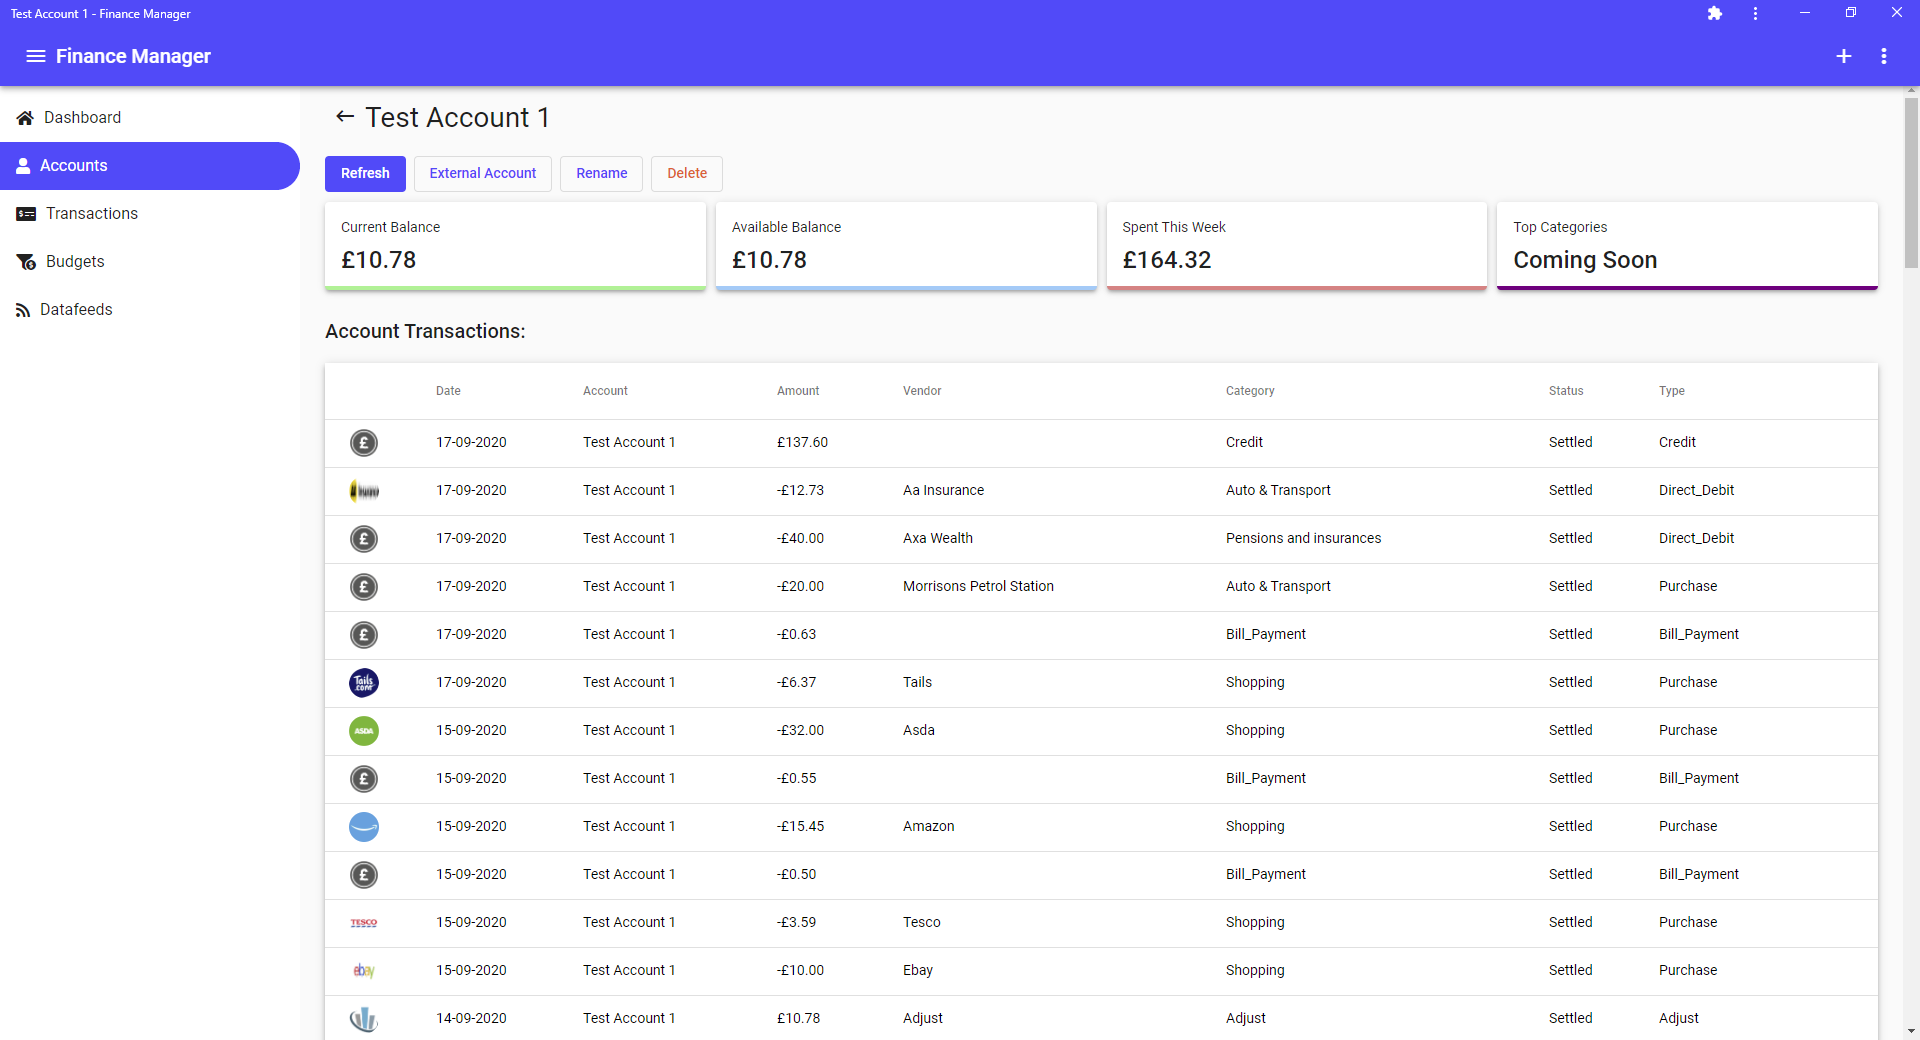
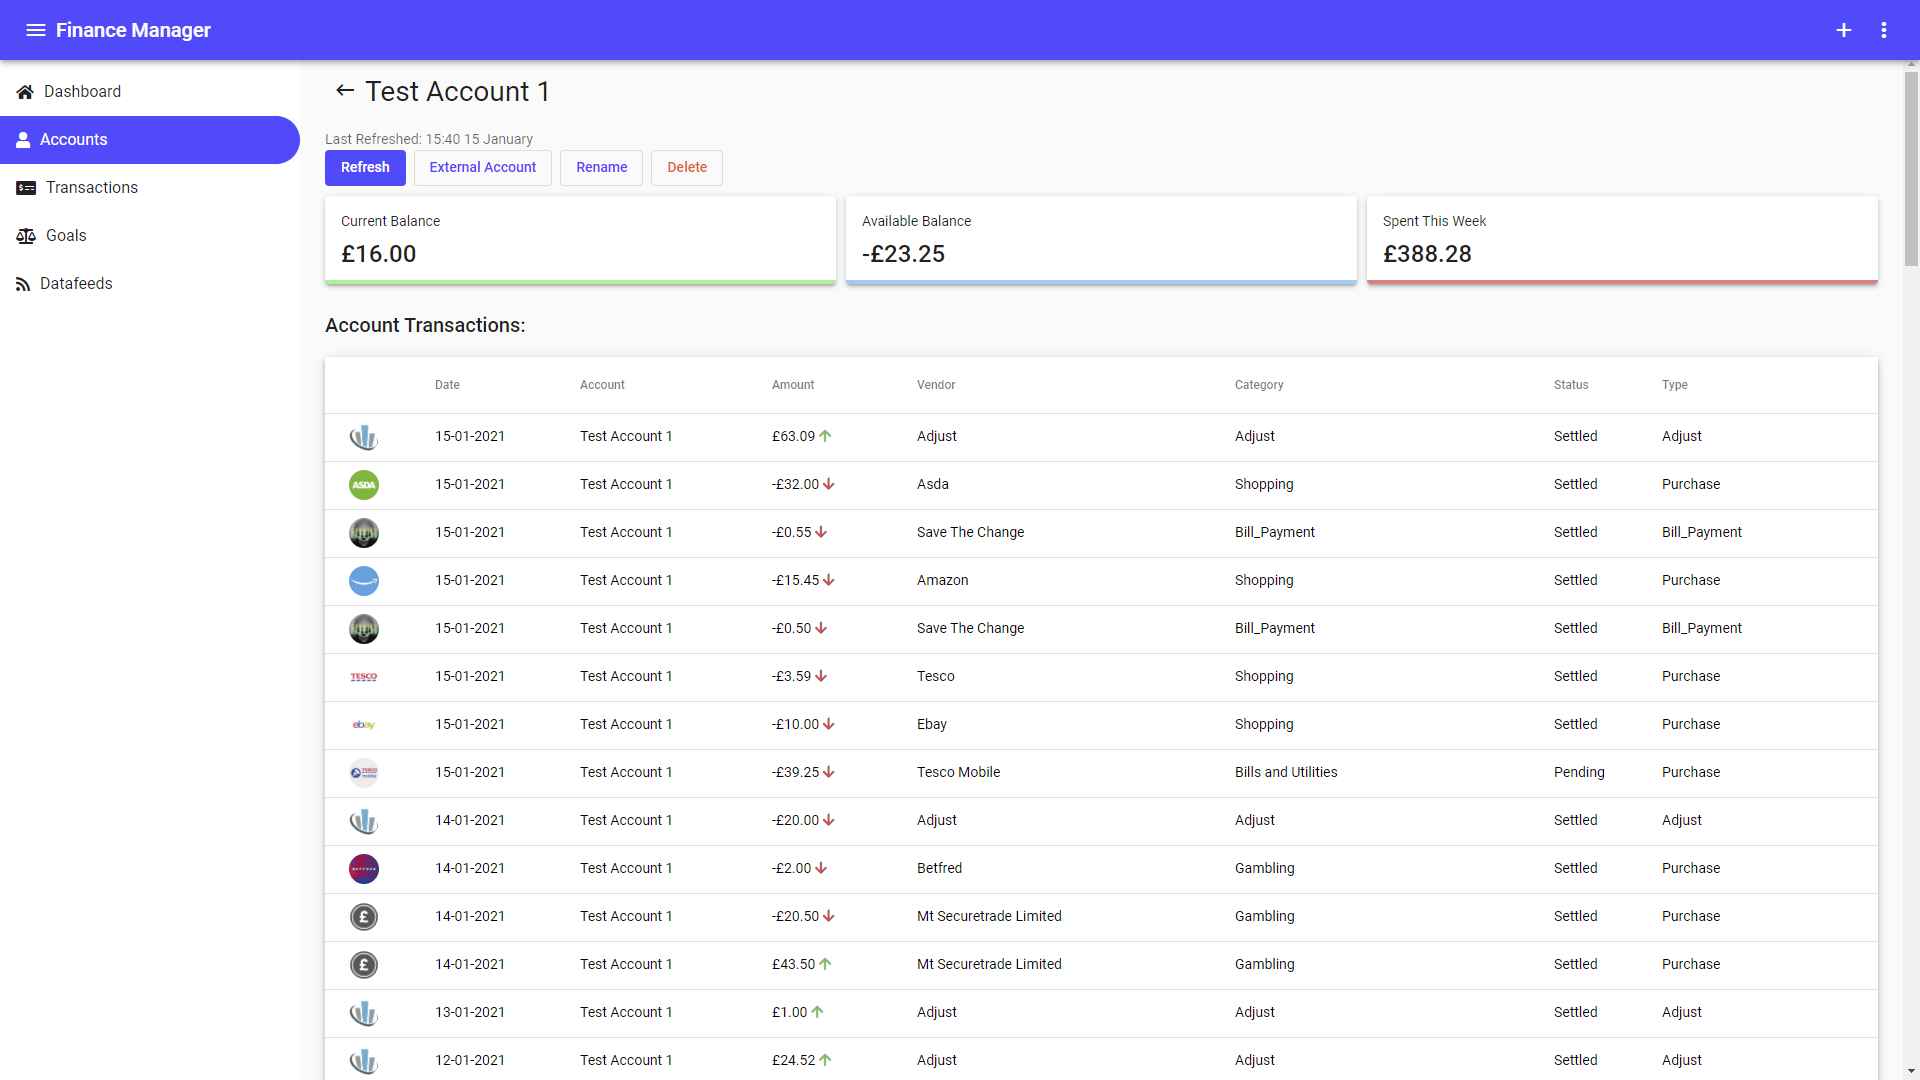
🌙 Fixed charts & Added Dark Mode

diff --git a/src/src/app/Pages/transaction-details/transaction-details.component.ts b/src/src/app/Pages/transaction-details/transaction-details.component.ts
@@ -4,12 +4,18 @@ import {
   ViewChild,
   AfterViewInit,
   HostListener,
+  Inject,
 } from '@angular/core';
 import { TransactionsService } from 'src/app/Services/transactions.service';
 import { ActivatedRoute, Router } from '@angular/router';
 import { TransactionFormComponent } from 'src/app/Components/transaction-form/transaction-form.component';
 import { ConfigService } from 'src/app/Services/config.service';
 import { NotifierService } from 'angular-notifier';
+import {
+  MatDialog,
+  MatDialogRef,
+  MAT_DIALOG_DATA,
+} from '@angular/material/dialog';
 
 @Component({
   templateUrl: './transaction-details.component.html',
@@ -21,7 +27,8 @@ export class TransactionDetailsComponent implements AfterViewInit, OnInit {
     private route: ActivatedRoute,
     private router: Router,
     private notifier: NotifierService,
-    private configService: ConfigService
+    private configService: ConfigService,
+    public dialog: MatDialog
   ) {}
 
   @ViewChild(TransactionFormComponent, { static: false })
@@ -102,5 +109,48 @@ export class TransactionDetailsComponent implements AfterViewInit, OnInit {
         .deleteTransaction(this.id)
         .subscribe(() => this.router.navigate(['/transactions']));
     }
+  }
+
+  setCustomIcon() {
+    const dialogRef = this.dialog.open(TransactionSetCustomIcon, {
+      width: '400px',
+      data: this.icon,
+    });
+
+    dialogRef.afterClosed().subscribe((result) => {
+      console.log('The dialog was closed', result);
+      if (result) {
+        this.icon = result;
+      }
+    });
+  }
+}
+
+@Component({
+  template: `
+    <h1 mat-dialog-title>Set Transaction Icon</h1>
+    <div mat-dialog-content>
+      <p>Icon Url</p>
+      <mat-form-field style="width: 100%">
+        <mat-label>Icon Url</mat-label>
+        <input matInput [(ngModel)]="iconUrl" />
+      </mat-form-field>
+    </div>
+    <div mat-dialog-actions>
+      <button mat-button (click)="onNoClick()">Cancel</button>
+      <button mat-button [mat-dialog-close]="iconUrl" cdkFocusInitial>
+        Ok
+      </button>
+    </div>
+  `,
+})
+export class TransactionSetCustomIcon {
+  constructor(
+    public dialogRef: MatDialogRef<TransactionSetCustomIcon>,
+    @Inject(MAT_DIALOG_DATA) public iconUrl: string
+  ) {}
+
+  onNoClick(): void {
+    this.dialogRef.close();
   }
 }

diff --git a/src/src/app/app.module.ts b/src/src/app/app.module.ts
@@ -23,7 +23,10 @@ import { AccountsComponent } from './Pages/accounts/accounts.component';
 import { TransactionsComponent } from './Pages/transactions/transactions.component';
 import { AccountDetailsComponent } from './Pages/account-details/account-details.component';
 import { FinanceApiRequest } from './Services/finance-api.request.service';
-import { TransactionDetailsComponent } from './Pages/transaction-details/transaction-details.component';
+import {
+  TransactionDetailsComponent,
+  TransactionSetCustomIcon,
+} from './Pages/transaction-details/transaction-details.component';
 import { DatePipe } from '@angular/common';
 import { ComponentModule } from './Components/component.module';
 import { AddAccountComponent } from './Pages/add/add-account/add-account.component';
@@ -37,6 +40,7 @@ import { AddGoalComponent } from './Pages/goals/add-goal/add-goal.component';
 import { EditGoalComponent } from './Pages/goals/edit-goal/edit-goal.component';
 import { AddSplitTransactionComponent } from './Pages/add/add-split-transaction/add-split-transaction.component';
 import { AddTransferTransactionComponent } from './Pages/add/add-transfer-transaction/add-transfer-transaction.component';
+import { SettingsComponent } from './Pages/settings/settings.component';
 
 @NgModule({
   declarations: [
@@ -57,6 +61,8 @@ import { AddTransferTransactionComponent } from './Pages/add/add-transfer-transa
     EditGoalComponent,
     AddSplitTransactionComponent,
     AddTransferTransactionComponent,
+    TransactionSetCustomIcon,
+    SettingsComponent,
   ],
   imports: [
     BrowserModule,

diff --git a/src/src/app/Pages/account-details/account-details.component.html b/src/src/app/Pages/account-details/account-details.component.html
@@ -33,19 +33,19 @@
     fxLayoutGap="10px"
     fxLayoutAlign="center"
   >
-    <mat-card class="current-balance mat-elevation-z3" fxFlex="25%">
+    <mat-card class="current-balance mat-elevation-z3" fxFlex="33%">
       <mat-card-content>Current Balance</mat-card-content>
       <mat-card-title>{{
         account.CurrentBalance | currency: account.BaseCurrency
       }}</mat-card-title>
     </mat-card>
-    <mat-card class="available-balance mat-elevation-z3" fxFlex="25%">
+    <mat-card class="available-balance mat-elevation-z3" fxFlex="33%">
       <mat-card-content>Available Balance</mat-card-content>
       <mat-card-title>{{
         account.AvailableBalance | currency: account.BaseCurrency
       }}</mat-card-title>
     </mat-card>
-    <mat-card class="spent-this-week mat-elevation-z3" fxFlex="25%">
+    <mat-card class="spent-this-week mat-elevation-z3" fxFlex="33%">
       <mat-card-content>Spent This Week</mat-card-content>
       <mat-card-title *ngIf="spentThisWeek != null; else spentThisWeekLoader">{{
         spentThisWeek | currency: account.BaseCurrency
@@ -53,10 +53,6 @@
       <ng-template #spentThisWeekLoader
         ><mat-spinner style="margin: auto" diameter="40"></mat-spinner
       ></ng-template>
-    </mat-card>
-    <mat-card class="top-categories mat-elevation-z3" fxFlex="25%">
-      <mat-card-content>Top Categories</mat-card-content>
-      <mat-card-title>Coming Soon</mat-card-title>
     </mat-card>
   </div>
 

diff --git a/src/src/app/Services/theme.service.ts b/src/src/app/Services/theme.service.ts
@@ -1,0 +1,37 @@
+import { Injectable } from '@angular/core';
+import * as Chart from 'chart.js';
+import { BehaviorSubject } from 'rxjs';
+
+@Injectable({
+  providedIn: 'root',
+})
+export class ThemeService {
+  constructor() {}
+
+  public static LoadTheme$(): () => Promise<void> {
+    return () =>
+      new Promise<void>((resolve) => {
+        ThemeService.LoadTheme();
+        resolve();
+      });
+  }
+
+  public static CurrentTheme = new BehaviorSubject<string>('light');
+
+  public static LoadTheme() {
+    var element = document.getElementById('app-entry');
+    this.CurrentTheme.next(localStorage.getItem('theme') || 'light');
+    if (this.CurrentTheme.value == 'light') {
+      element.classList.remove('finance-dark-theme');
+      Chart.defaults.global.defaultFontColor = '#646464';
+    } else {
+      element.classList.add('finance-dark-theme');
+      Chart.defaults.global.defaultFontColor = '#f2f2f2';
+    }
+  }
+
+  public static ChangeTheme(theme: string) {
+    localStorage.setItem('theme', theme);
+    this.LoadTheme();
+  }
+}

diff --git a/src/src/app/Pages/transactions/transactions.component.html b/src/src/app/Pages/transactions/transactions.component.html
@@ -10,7 +10,7 @@
   mat-table
   matSort
   [dataSource]="transactions | async"
-  class="mat-elevation-z4 table-hover"
+  class="mat-elevation-z4"
   [hidden]="isLoading | async"
 >
   <ng-container matColumnDef="Logo">
@@ -44,9 +44,16 @@
   <ng-container matColumnDef="Amount">
     <th mat-header-cell *matHeaderCellDef mat-sort-header>Amount</th>
     <td mat-cell *matCellDef="let transaction">
-      <a [routerLink]="['/transactions', transaction.ID]">{{
-        transaction.Amount | currency: transaction.Currency
-      }}</a>
+      <a [routerLink]="['/transactions', transaction.ID]"
+        >{{ transaction.Amount | currency: transaction.Currency }}
+      </a>
+      <i *ngIf="transaction.Amount > 0" class="fas fa-arrow-up text-success"></i
+      ><!--shows green up arrow if income-->
+      <i
+        *ngIf="transaction.Amount < 0"
+        class="fas fa-arrow-down text-danger"
+      ></i
+      ><!--shows down red arrow if purchase-->
     </td>
   </ng-container>
 

diff --git a/src/src/app/Services/service.module.ts b/src/src/app/Services/service.module.ts
@@ -1,4 +1,4 @@
-import { NgModule } from '@angular/core';
+import { APP_INITIALIZER, NgModule } from '@angular/core';
 import { CommonModule } from '@angular/common';
 import { AuthService } from './auth.service';
 import { FinanceApiRequest } from './finance-api.request.service';
@@ -6,6 +6,7 @@ import { TitleService } from './title.service';
 import { ConfigService } from './config.service';
 import { StatisticsService } from './statistics.service';
 import { GoalsService } from './goals.service';
+import { ThemeService } from './theme.service';
 
 @NgModule({
   declarations: [],
@@ -17,6 +18,13 @@ import { GoalsService } from './goals.service';
     ConfigService,
     StatisticsService,
     GoalsService,
+    ThemeService,
+    {
+      provide: APP_INITIALIZER,
+      useFactory: ThemeService.LoadTheme$,
+      deps: [],
+      multi: true,
+    },
   ],
 })
 export class ServiceModule {}

diff --git a/src/src/app/app-routing.module.ts b/src/src/app/app-routing.module.ts
@@ -19,6 +19,7 @@ import { AddGoalComponent } from './Pages/goals/add-goal/add-goal.component';
 import { EditGoalComponent } from './Pages/goals/edit-goal/edit-goal.component';
 import { AddSplitTransactionComponent } from './Pages/add/add-split-transaction/add-split-transaction.component';
 import { AddTransferTransactionComponent } from './Pages/add/add-transfer-transaction/add-transfer-transaction.component';
+import { SettingsComponent } from './Pages/settings/settings.component';
 
 const authorisedRoutes: Routes = [
   {
@@ -64,6 +65,11 @@ const authorisedRoutes: Routes = [
         data: { title: 'Add Goal' },
       },
     ],
+  },
+  {
+    path: 'settings',
+    component: SettingsComponent,
+    data: { title: 'Settings' },
   },
   {
     path: 'datafeeds',

diff --git a/src/src/app/Pages/settings/settings.component.spec.ts b/src/src/app/Pages/settings/settings.component.spec.ts
@@ -1,0 +1,25 @@
+import { async, ComponentFixture, TestBed } from '@angular/core/testing';
+
+import { SettingsComponent } from './settings.component';
+
+describe('SettingsComponent', () => {
+  let component: SettingsComponent;
+  let fixture: ComponentFixture<SettingsComponent>;
+
+  beforeEach(async(() => {
+    TestBed.configureTestingModule({
+      declarations: [ SettingsComponent ]
+    })
+    .compileComponents();
+  }));
+
+  beforeEach(() => {
+    fixture = TestBed.createComponent(SettingsComponent);
+    component = fixture.componentInstance;
+    fixture.detectChanges();
+  });
+
+  it('should create', () => {
+    expect(component).toBeTruthy();
+  });
+});

diff --git a/src/src/default.theme.scss b/src/src/default.theme.scss
@@ -16,6 +16,9 @@ $finance-theme: mat-light-theme(
   $finance-warn
 );
 
+table a {
+  color: black;
+}
 // Include the default theme styles.
 @include angular-material-theme($finance-theme);
 
@@ -30,6 +33,10 @@ $dark-theme: mat-dark-theme($dark-primary, $dark-accent, $dark-warn);
 // `.unicorn-dark-theme` will be affected by this alternate dark theme instead of the default theme.
 .finance-dark-theme {
   @include angular-material-theme($dark-theme);
+
+  table a {
+    color: white;
+  }
 }
 
 .mat-primary-background {

diff --git a/src/src/app/Navigation/navigation.component.html b/src/src/app/Navigation/navigation.component.html
@@ -53,14 +53,10 @@
     <mat-icon>more_vert</mat-icon>
   </button>
   <mat-menu #toolMenu="matMenu">
-    <!-- <button mat-menu-item [routerLink]="['/user-account']">
-      <mat-icon>account_circle</mat-icon>
-      <span>Account</span>
-    </button>
     <button mat-menu-item [routerLink]="['/settings']">
       <mat-icon>settings</mat-icon>
       <span>Settings</span>
-    </button> -->
+    </button>
     <button mat-menu-item (click)="LogOut()">
       <mat-icon>exit_to_app</mat-icon>
       <span>Log Out</span>

diff --git a/src/src/app/Pages/settings/settings.component.ts b/src/src/app/Pages/settings/settings.component.ts
@@ -1,0 +1,18 @@
+import { Component, OnInit } from '@angular/core';
+import { ThemeService } from 'src/app/Services/theme.service';
+
+@Component({
+  templateUrl: './settings.component.html',
+  styleUrls: ['./settings.component.css'],
+})
+export class SettingsComponent implements OnInit {
+  constructor() {}
+
+  ngOnInit(): void {}
+
+  theme: string = ThemeService.CurrentTheme.value;
+
+  save() {
+    ThemeService.ChangeTheme(this.theme);
+  }
+}

diff --git a/src/src/app/Pages/settings/settings.component.html b/src/src/app/Pages/settings/settings.component.html
@@ -1,0 +1,12 @@
+<h3>Interface:</h3>
+
+<mat-form-field>
+  <mat-label>Theme</mat-label>
+  <mat-select [(ngModel)]="theme">
+    <mat-option value="light">Light</mat-option>
+    <mat-option value="dark">Dark</mat-option>
+  </mat-select>
+</mat-form-field>
+
+<br />
+<button mat-raised-button color="primary" (click)="save()">Save</button>
